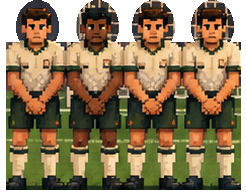
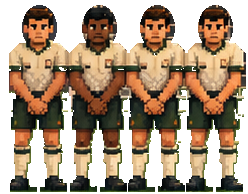
Coup franc : 5 positions de tir au hasard (ballon, tireur et mur se déplacent), gardien plus rapide
Claude-Session: https://claude.ai/code/session_017bSkysZbUvQznu3NuY22Vg

diff --git a/src/FreeKickGame.tsx b/src/FreeKickGame.tsx
@@ -50,7 +50,11 @@ const KEEPER_LINE_OFFSET = 0.3
 const MAX_CURL_ACCEL = 5.5 // m/s²
 const MAX_SCORE = 100000
 const LIVES = 3
-const BALL_X = -3 // le ballon est à gauche du but (comme sur l'image)
+const BALL_X = -3 // position du ballon sur l'image d'origine (référence de l'affichage)
+// positions de coup franc (m, 0 = face au but) : on en tire une au hasard à chaque tir
+const SPOTS = [-4, -2.5, -1, 0.5, 2]
+const SPOT_PX = 55   // décalage à l'écran du ballon et du tireur par mètre
+const WALL_PX = 62   // décalage à l'écran du mur par mètre
 
 // ---- l'image de référence (coordonnées en px de l'image) ----
 const IW = 941, IH = 1672
@@ -63,7 +67,7 @@ const IMG = {
 }
 const SX = [125, 109, 58.7]  // px par mètre (latéral) : ballon, mur, but
 const SY = [100, 88, 63.5]   // px par mètre (hauteur)
-const WALL_BOX = { x: 352, y: 428 } // position de la découpe du mur dans l'image
+const WALL_SPR = { cx: 124, feet: 188 } // découpe du mur (248 × 194) : milieu et pieds
 // gardien animé (vidéo fond vert) : en place, pas chassé, appel, envol, plongeon (vers la droite ; miroir à gauche)
 const KF_W = 322, KF_H = 265
 // tireur animé (vidéo fond vert) : 9 images — debout, élan (1-4), frappe (5), accompagnement (6-8)
@@ -99,15 +103,15 @@ function mulberry32(seed: number) {
 
 // ---- paliers : la distance augmente avec les buts, le gardien devient plus vif ----
 const STAGES = [
-  { from: 0, dMin: 17, dMax: 18, kSpeed: 1.5, kReact: 0.52, reach: 1.0 },
-  { from: 3, dMin: 19, dMax: 21, kSpeed: 2.1, kReact: 0.43, reach: 1.0 },
-  { from: 7, dMin: 22, dMax: 24, kSpeed: 2.6, kReact: 0.36, reach: 1.05 },
-  { from: 11, dMin: 25, dMax: 27, kSpeed: 2.9, kReact: 0.32, reach: 1.05 },
-  { from: 15, dMin: 28, dMax: 32, kSpeed: 3.2, kReact: 0.29, reach: 1.12 },
+  { from: 0, dMin: 17, dMax: 18, kSpeed: 2.3, kReact: 0.4, reach: 1.0 },
+  { from: 3, dMin: 19, dMax: 21, kSpeed: 2.9, kReact: 0.34, reach: 1.0 },
+  { from: 7, dMin: 22, dMax: 24, kSpeed: 3.4, kReact: 0.3, reach: 1.05 },
+  { from: 11, dMin: 25, dMax: 27, kSpeed: 3.7, kReact: 0.27, reach: 1.05 },
+  { from: 15, dMin: 28, dMax: 32, kSpeed: 4.0, kReact: 0.24, reach: 1.12 },
 ]
 const stageOf = (goals: number) => { let k = 0; STAGES.forEach((st, i) => { if (goals >= st.from) k = i }); return k + 1 }
 
-interface ShotConfig { dist: number; keeperSpeed: number; keeperReaction: number; keeperReach: number }
+interface ShotConfig { dist: number; ballX: number; keeperSpeed: number; keeperReaction: number; keeperReach: number }
 function shotConfig(seed: number, n: number): ShotConfig {
   const lv = stageOf(n)
   const st = STAGES[lv - 1], next = STAGES[lv]
@@ -115,7 +119,11 @@ function shotConfig(seed: number, n: number): ShotConfig {
   const span = next ? next.from - st.from : 16
   const u = Math.min(1, (n - st.from) / Math.max(1, span - 1))
   const dist = Math.max(st.dMin, Math.min(st.dMax, st.dMin + u * (st.dMax - st.dMin) + (r() - 0.5) * 0.6))
-  return { dist, keeperSpeed: st.kSpeed, keeperReaction: st.kReact, keeperReach: st.reach }
+  // position au hasard, jamais deux fois la même d'affilée
+  const prev = n > 0 ? Math.floor(mulberry32(seed + (n - 1) * 7919 + 1)() * SPOTS.length) : -1
+  let i = Math.floor(mulberry32(seed + n * 7919 + 1)() * SPOTS.length)
+  if (i === prev) i = (i + 1 + Math.floor(r() * (SPOTS.length - 1))) % SPOTS.length
+  return { dist, ballX: SPOTS[i], keeperSpeed: st.kSpeed, keeperReaction: st.kReact, keeperReach: st.reach }
 }
 
 // ---- géométrie ----
@@ -127,19 +135,32 @@ interface Scene {
   wallLats: number[]
   wallC: Vec3                  // centre du mur (pour caler l'image)
   keeperX0: number
+  ballSX: number // x à l'écran du ballon et du mur
+  wallSX: number
 }
-function buildScene(cfg: ShotConfig): Scene {
-  const ball0 = { x: BALL_X, y: BALL_R, z: 0 }
-  // mur de 4 à 9,15 m sur la ligne ballon -> poteau gauche
-  let hx = -GOAL_HALF_W - ball0.x, hz = cfg.dist
+// mur de 4 à 9,15 m sur la ligne ballon -> poteau le plus proche
+function wallGeom(ballX: number, dist: number) {
+  const near = ballX < -0.25 ? -1 : 1
+  let hx = near * GOAL_HALF_W - ballX, hz = dist
   const hl = Math.hypot(hx, hz)
   hx /= hl; hz /= hl
   const w = { x: hz, z: -hx }
-  const outward = Math.sign(w.x) * -1 || -1
+  const outward = Math.sign(w.x) * near || 1
   const wallLats = Array.from({ length: 4 }, (_, k) => outward * (0.35 - WALL_PLAYER_HALF_W - k * 0.55))
   const mean = wallLats.reduce((a, b) => a + b, 0) / 4
-  const wallC = { x: ball0.x + hx * WALL_DIST + w.x * mean, y: 0, z: hz * WALL_DIST + w.z * mean }
-  return { cfg, ball0, hc: { x: hx, z: hz }, w, wallLats, wallC, keeperX0: 1.65 }
+  const wallC = { x: ballX + hx * WALL_DIST + w.x * mean, y: 0, z: hz * WALL_DIST + w.z * mean }
+  return { near, hc: { x: hx, z: hz }, w, wallLats, wallC }
+}
+function buildScene(cfg: ShotConfig): Scene {
+  const ball0 = { x: cfg.ballX, y: BALL_R, z: 0 }
+  const g = wallGeom(cfg.ballX, cfg.dist)
+  const ref = wallGeom(BALL_X, cfg.dist) // disposition de l'image d'origine
+  return {
+    cfg, ball0, hc: g.hc, w: g.w, wallLats: g.wallLats, wallC: g.wallC,
+    keeperX0: -g.near * 1.5,
+    ballSX: IMG.ball.x + (cfg.ballX - BALL_X) * SPOT_PX,
+    wallSX: IMG.wall.x + (g.wallC.x - ref.wallC.x) * WALL_PX,
+  }
 }
 
 // projection sur l'image : interpolation ballon -> mur -> but (le mur et le but
@@ -152,11 +173,11 @@ function project(sc: Scene, p: Vec3) {
   let t: number, X: number, Y: number, xr: number, sx: number, sy: number
   if (u <= uw) {
     t = u / uw
-    X = L(IMG.ball.x, IMG.wall.x, t); Y = L(IMG.ball.y, IMG.wall.y, t)
+    X = L(sc.ballSX, sc.wallSX, t); Y = L(IMG.ball.y, IMG.wall.y, t)
     xr = L(sc.ball0.x, sc.wallC.x, t); sx = L(SX[0], SX[1], t); sy = L(SY[0], SY[1], t)
   } else {
     t = (u - uw) / (1 - uw)
-    X = L(IMG.wall.x, IMG.goal.x, t); Y = L(IMG.wall.y, IMG.goal.y, t)
+    X = L(sc.wallSX, IMG.goal.x, t); Y = L(IMG.wall.y, IMG.goal.y, t)
     xr = L(sc.wallC.x, 0, t); sx = L(SX[1], SX[2], t); sy = L(SY[1], SY[2], t)
   }
   return { x: X + (p.x - xr) * sx, y: Y - p.y * sy, k: sy, u }
@@ -643,10 +664,12 @@ export default function FreeKickGame({ groupId, groupName, autoApplyAllLeagues, 
       }
     }
     // le mur repasse devant le ballon quand le ballon est derrière lui
-    if (behindWall) {
-      drawBall()
-      if (im.wall.complete && im.wall.naturalWidth) ctx.drawImage(im.wall, WALL_BOX.x, WALL_BOX.y)
-    } else drawBall()
+    const drawWall = () => {
+      if (!im.wall.complete || !im.wall.naturalWidth) return
+      const wc = P(sc.wallC)
+      ctx.drawImage(im.wall, Math.round(wc.x - WALL_SPR.cx), Math.round(wc.y - WALL_SPR.feet))
+    }
+    if (behindWall) { drawBall(); drawWall() } else { drawWall(); drawBall() }
 
     // tireur n°10 animé : son pied droit tombe sur le ballon à la frappe
     if (im.shooter.complete && im.shooter.naturalWidth) {
@@ -655,7 +678,8 @@ export default function FreeKickGame({ groupId, groupName, autoApplyAllLeagues, 
       if (eng.phase === 'aim' && eng.runAt) f = Math.min(5, 1 + Math.floor(((t - eng.runAt) / 1000 / RUN_UP) * 5))
       else if (eng.kickAt && t - eng.kickAt < 450 && eng.phase !== 'aim') f = Math.min(8, 5 + Math.floor((t - eng.kickAt) / 110))
       const w = SH_W * SH_SCALE, h = SH_H * SH_SCALE
-      const x = IMG.ball.x - SH_BALL.x * SH_SCALE, y = IMG.ball.y - SH_BALL.y * SH_SCALE
+      const b0 = P(sc.ball0)
+      const x = b0.x - SH_BALL.x * SH_SCALE, y = b0.y - SH_BALL.y * SH_SCALE
       ctx.drawImage(im.shooter, f * SH_W, 0, SH_W, SH_H, x, y, w, h)
     }
 
